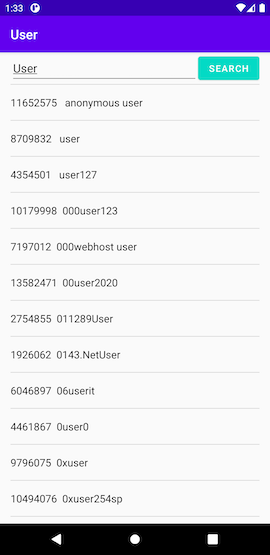
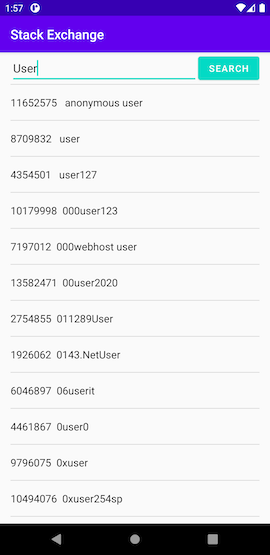
minor bugfix

diff --git a/app/src/main/java/com/fernandohbrasil/stackexchange/ui/main/ListUsersFragment.kt b/app/src/main/java/com/fernandohbrasil/stackexchange/ui/main/ListUsersFragment.kt
@@ -1,5 +1,6 @@
 package com.fernandohbrasil.stackexchange.ui.main
 
+import android.app.Application
 import android.os.Bundle
 import android.view.LayoutInflater
 import android.view.View
@@ -10,6 +11,7 @@ import androidx.fragment.app.activityViewModels
 import androidx.fragment.app.viewModels
 import androidx.lifecycle.Observer
 import androidx.lifecycle.ViewModelProvider
+import com.fernandohbrasil.stackexchange.R
 import com.fernandohbrasil.stackexchange.databinding.ListUsersFragmentBinding
 import com.fernandohbrasil.stackexchange.di.Injectable
 import com.fernandohbrasil.stackexchange.network.model.Users
@@ -43,7 +45,7 @@ class ListUsersFragment : Fragment(), Injectable {
 
     override fun onViewCreated(view: View, savedInstanceState: Bundle?) {
         super.onViewCreated(view, savedInstanceState)
-        sharedViewModel.setValuesAppBar(hasUpButton = false)
+        sharedViewModel.setValuesAppBar(getString(R.string.app_name),hasUpButton = false)
 
         listUsersViewModel.usersState.observe(viewLifecycleOwner, usersStateObserver())
 
